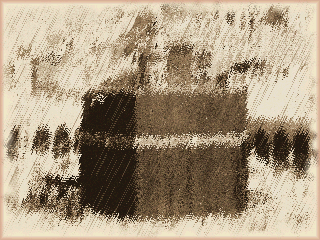
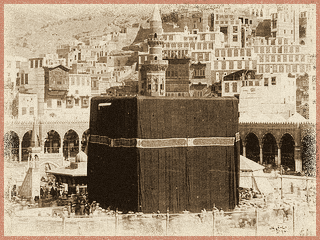
카바 신전 그림(D86)을 붓결 필터 없이 다시 굽는다 — 필터의 붓결이 세어 카바 · 회랑이 뭉개졌다(요청). 원본 사진을 4:3 으로 잘라 발견물 그림의 갈색 톤과 종이 테두리만 입혔다

diff --git a/asset/dstill/README.md b/asset/dstill/README.md
@@ -13,6 +13,6 @@
 |---|---|---|---|---|
 | `D84.png` | 돌묵상어(274) | [Cetorhinus maximus by greg skomal.JPG](https://commons.wikimedia.org/wiki/File:Cetorhinus_maximus_by_greg_skomal.JPG) (위키미디어 공용) | Greg Skomal / NOAA Fisheries Service | Public domain |
 | `D85.png` | 여우원숭이(275) | [FMIB 46849 Primates Maki Moccoe Lemur catta.jpeg](https://commons.wikimedia.org/wiki/File:FMIB_46849_Primates_Maki_Moccoe_Lemur_catta.jpeg) (위키미디어 공용) — 꼬리가 안 잘리게 양옆을 종이 빛으로 메워 4:3 으로 맞춘 뒤 바꿨다 | Charles d'Orbigny, *Dictionnaire universel d'histoire naturelle* (1849) | Public domain |
-| `D86.png` | 카바 신전(63) | [Khalili Collection Hajj and Arts of Pilgrimage arc.pp 0211.04.jpg](https://commons.wikimedia.org/wiki/File:Khalili_Collection_Hajj_and_Arts_of_Pilgrimage_arc.pp_0211.04.jpg) (위키미디어 공용) — 대지 안 사진에서 카바를 가운데로 잘라 명암을 편 뒤 바꿨다 | 무함마드 사디크 베이(Muhammad Sadiq Bey) 찍음 · 1880년경, 할릴리 컬렉션 | Public domain |
+| `D86.png` | 카바 신전(63) | [Khalili Collection Hajj and Arts of Pilgrimage arc.pp 0211.04.jpg](https://commons.wikimedia.org/wiki/File:Khalili_Collection_Hajj_and_Arts_of_Pilgrimage_arc.pp_0211.04.jpg) (위키미디어 공용) — 대지 안 사진에서 카바를 가운데로 잘라, 붓결 필터 없이 발견물 그림의 갈색 톤 · 종이 테두리만 입혔다(필터는 붓결이 세어 사진이 뭉개졌다) | 무함마드 사디크 베이(Muhammad Sadiq Bey) 찍음 · 1880년경, 할릴리 컬렉션 | Public domain |
 
 새 그림을 더하면 이 표에 한 줄을 더한다 — 저작자 표시가 필요한 라이선스(CC BY 따위)면 꼭 적는다.
